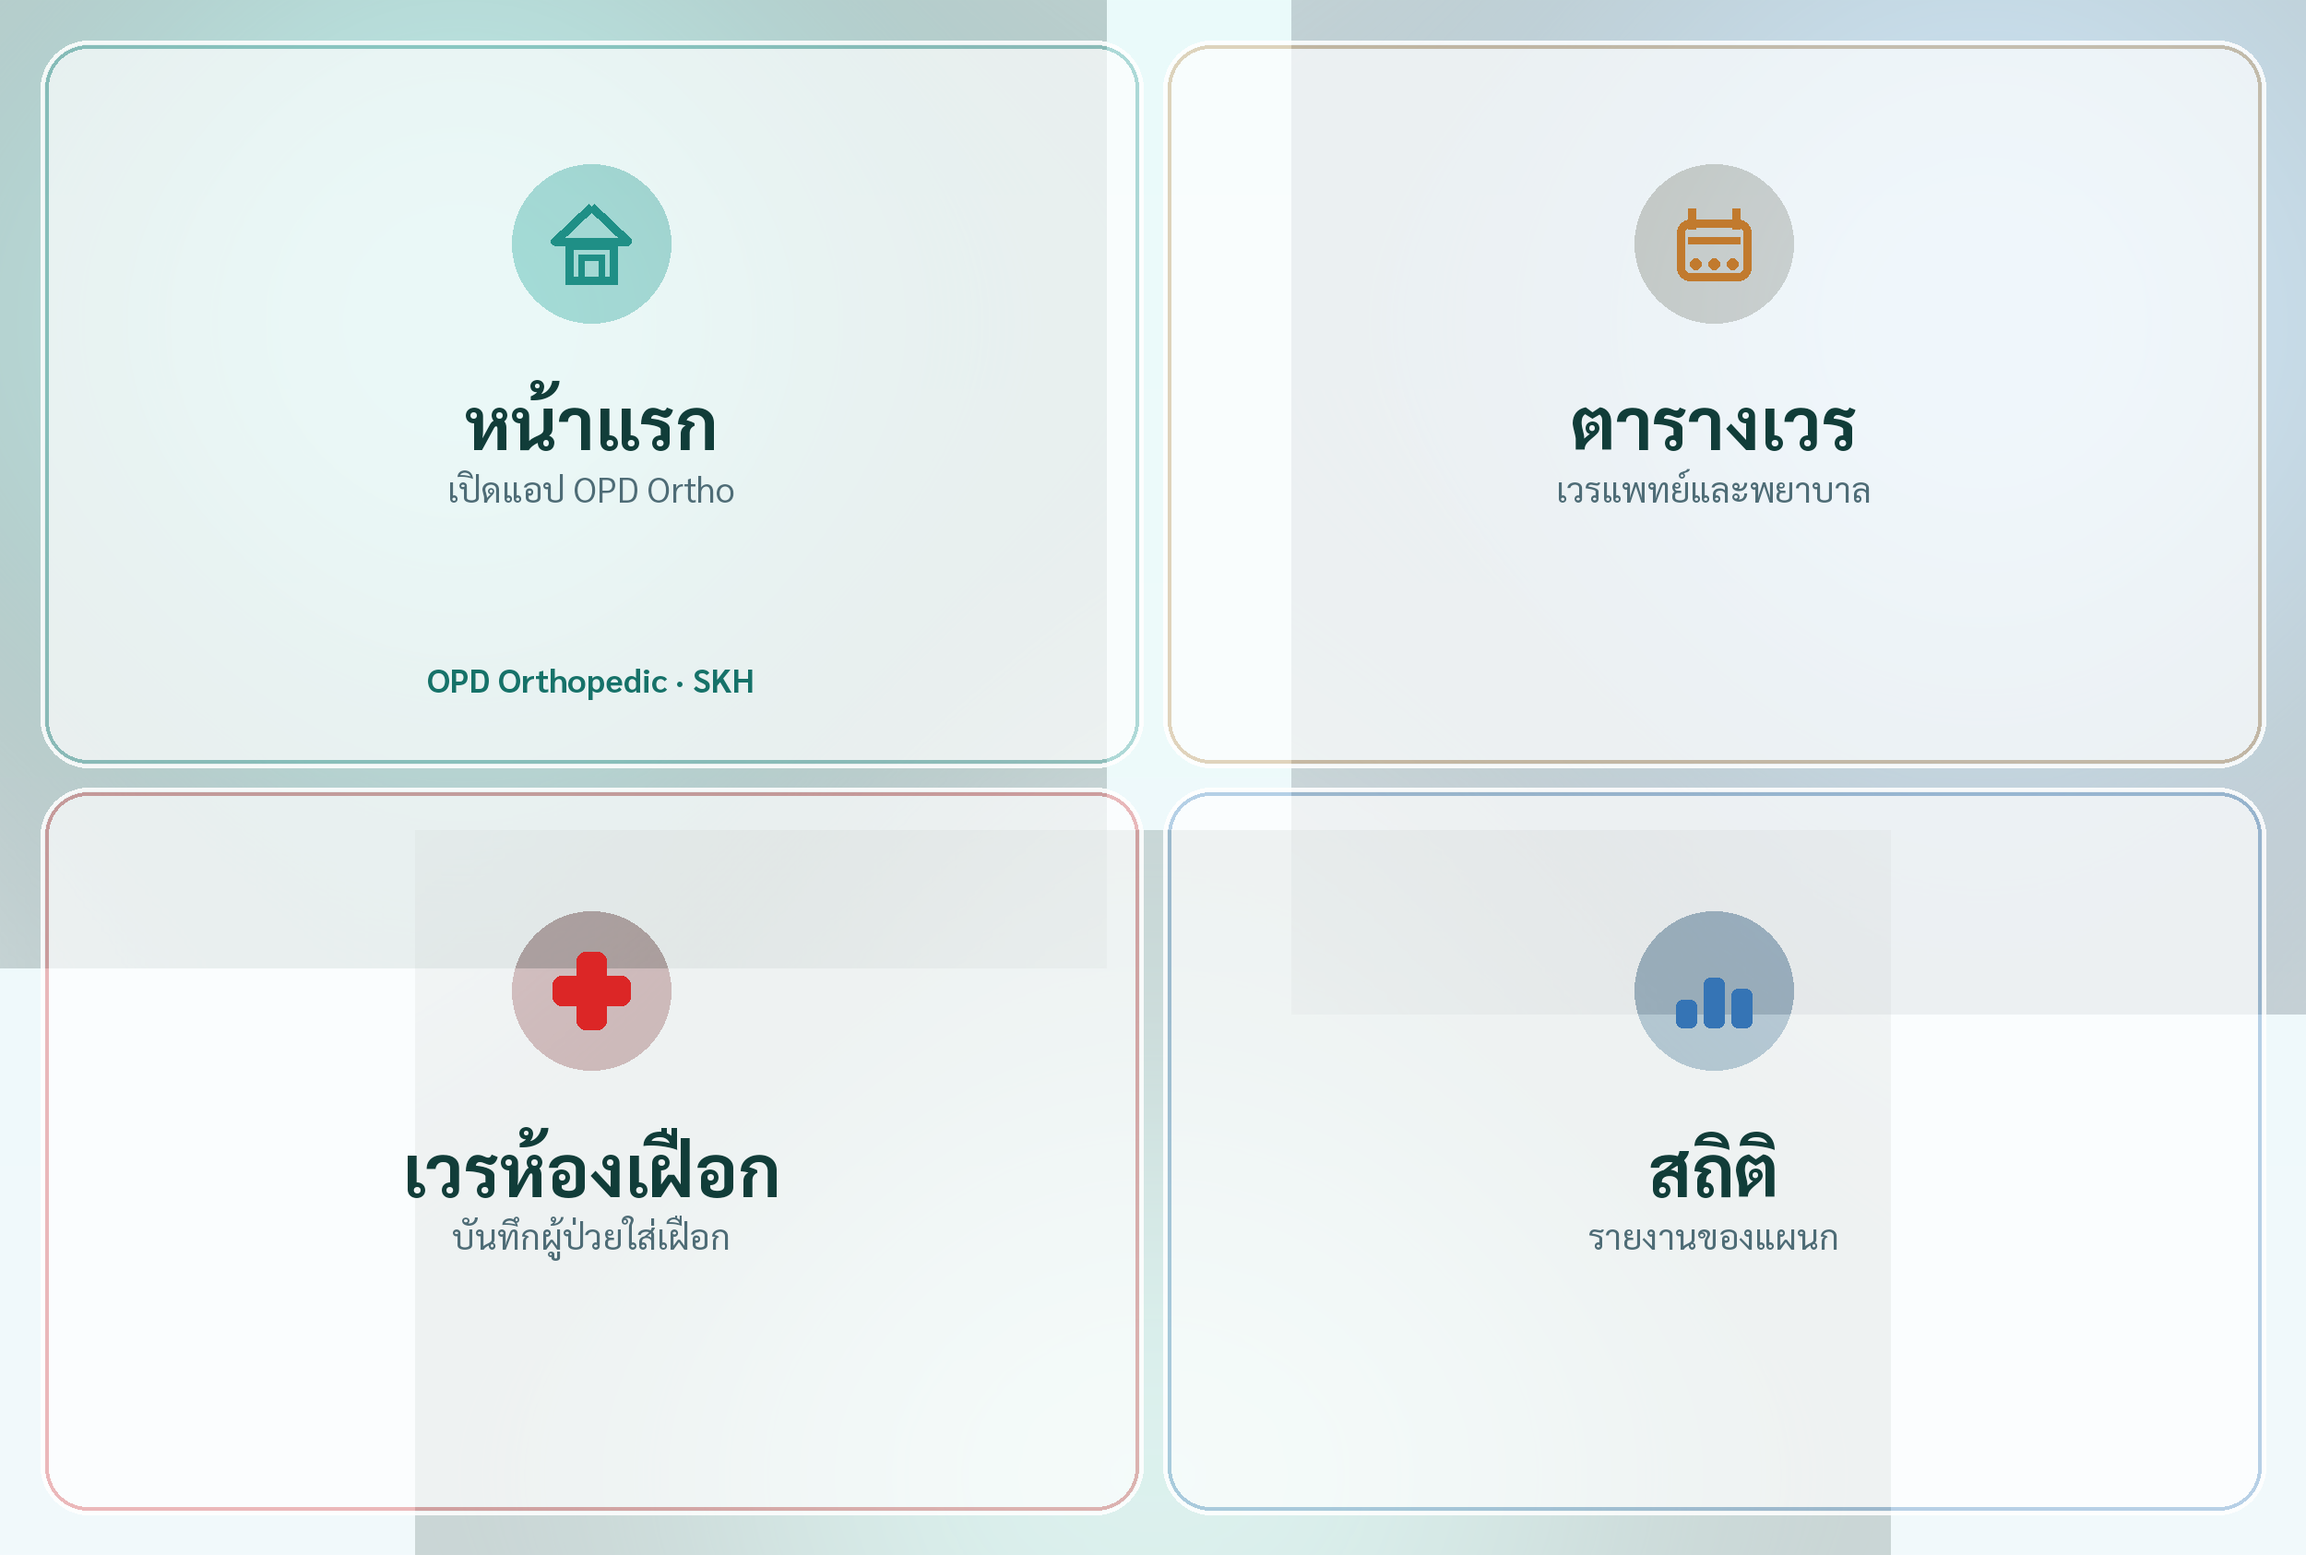
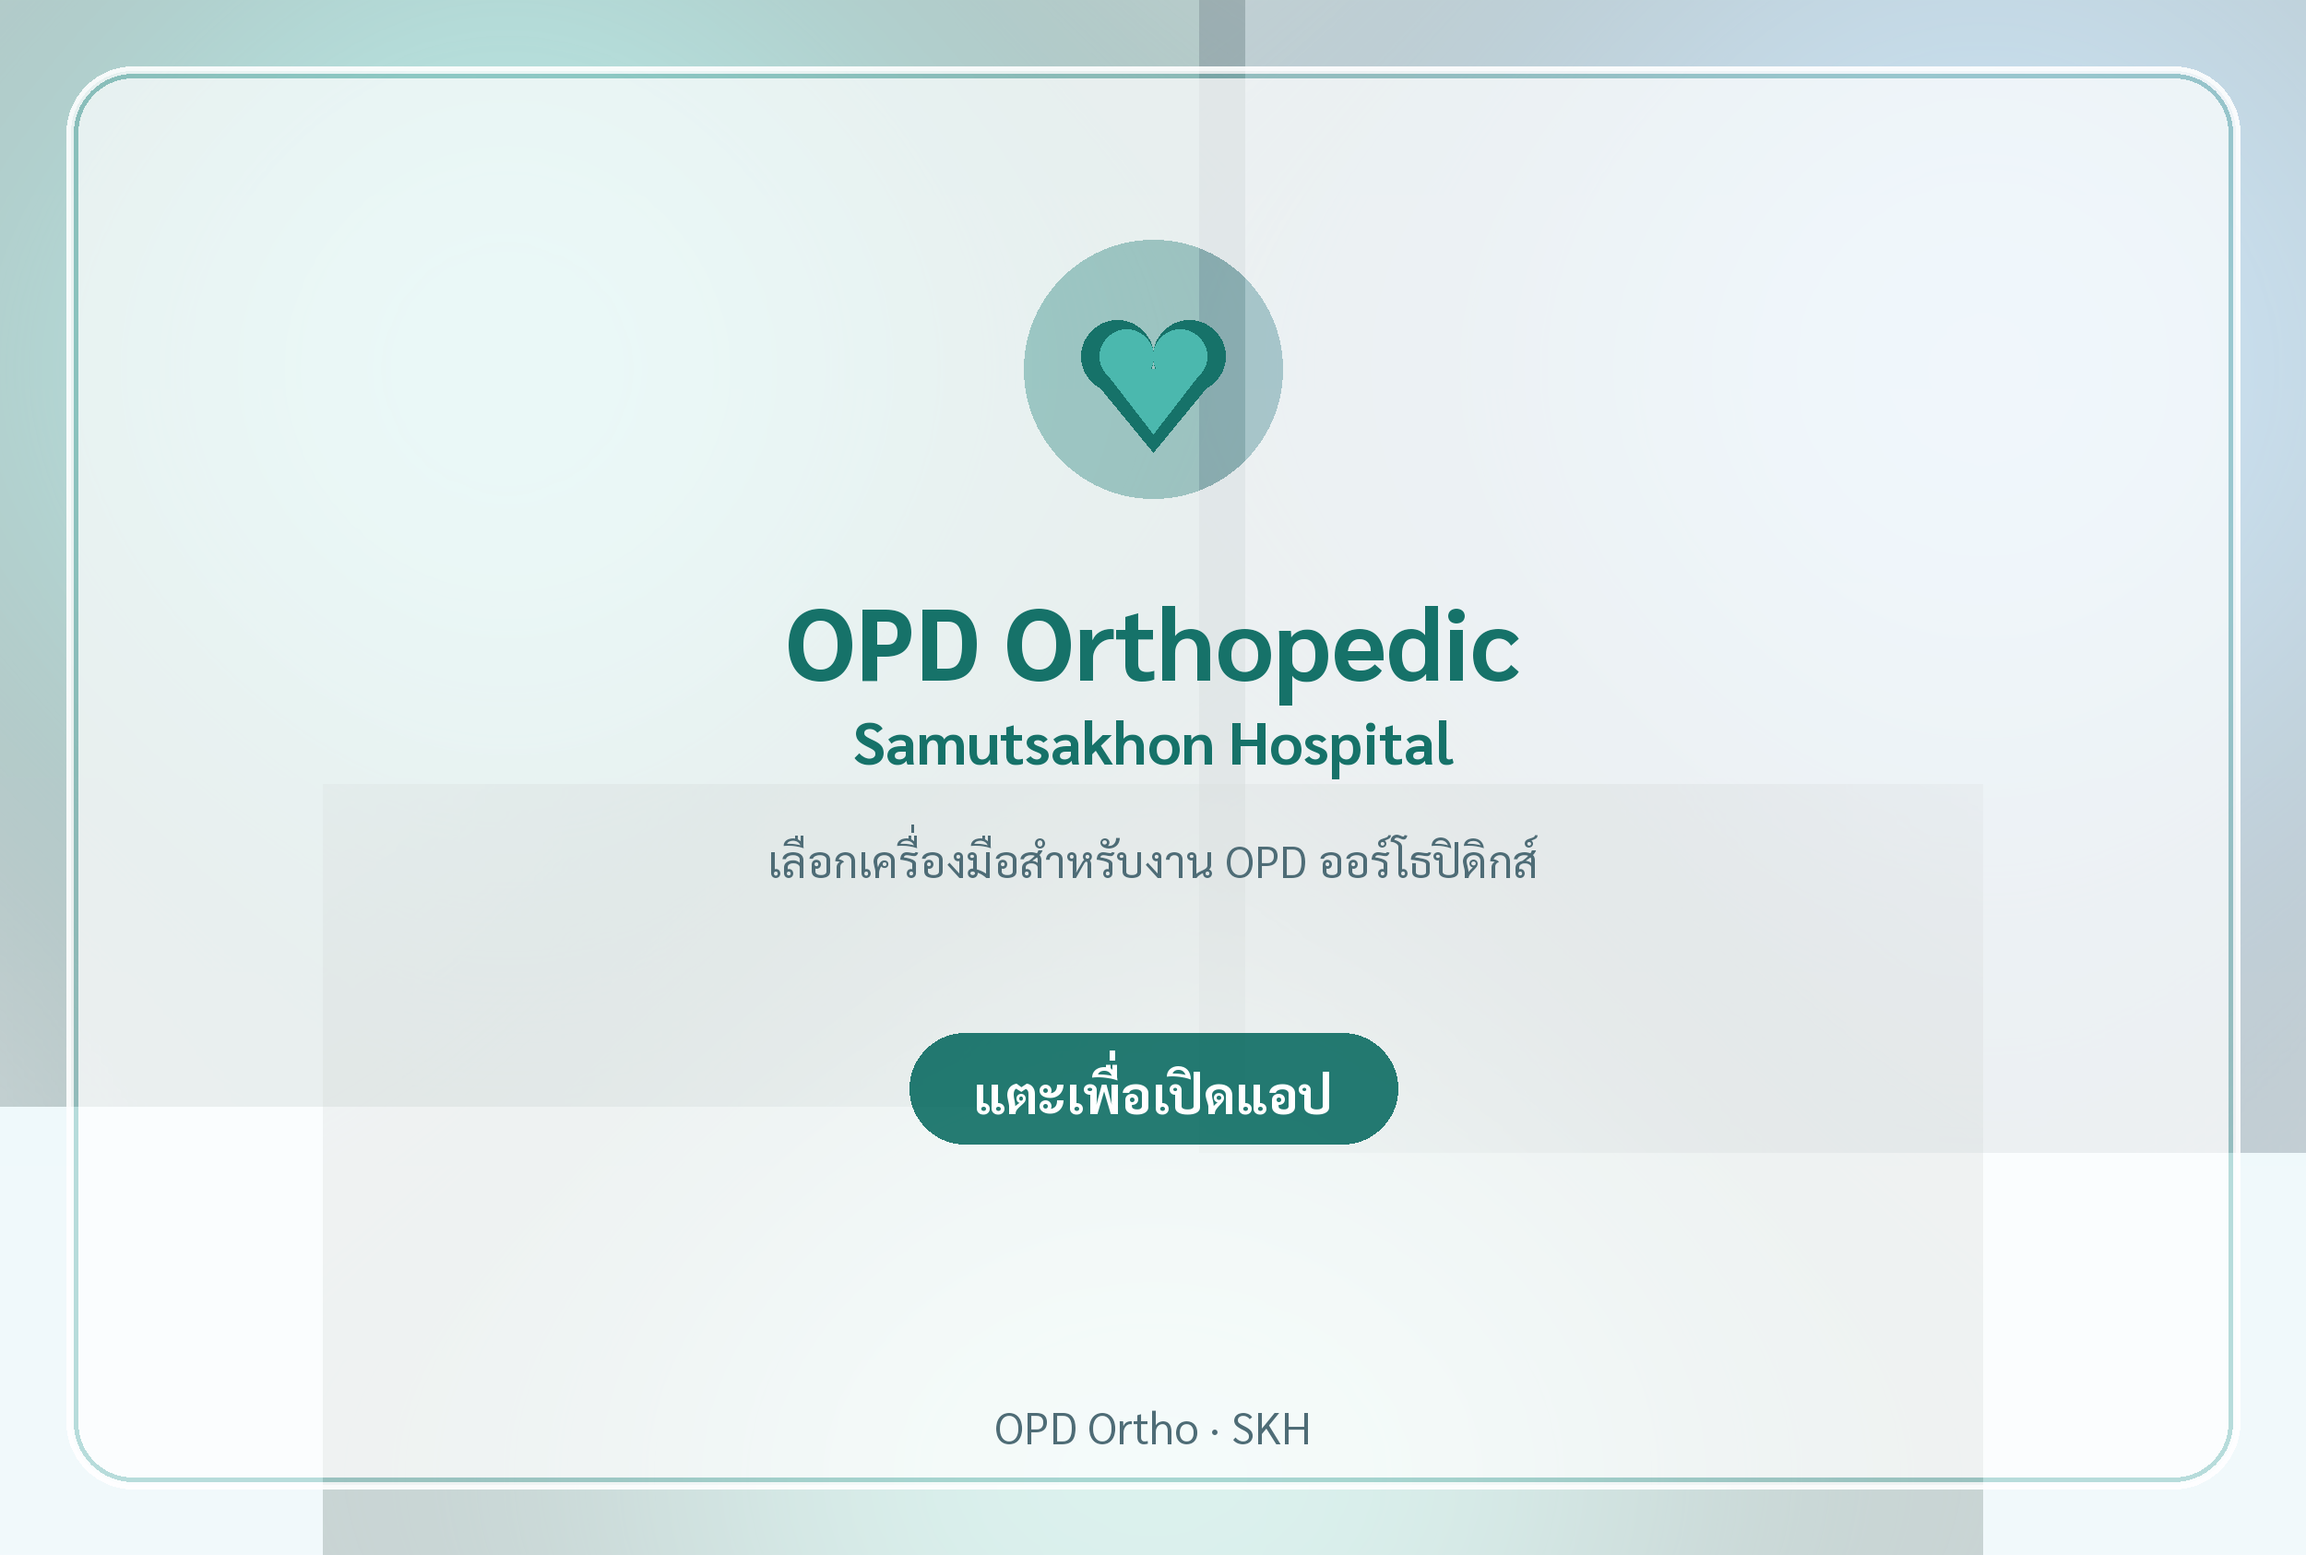
Simplify LINE rich menu to a single full-area LIFF link (#99)
* Fix LINE rich menu deploy: shorten chatBarText to 14-char limit

Validation failed with HTTP 400 because "เปิดแอป OPD Ortho" is 17
grapheme clusters; LINE caps chatBarText at 14. Also print API error
bodies and preflight length checks so future failures are actionable.

* Simplify LINE rich menu to a single full-area LIFF link

Replace the 2x2 module grid with one branded CTA panel that covers the
entire rich menu and opens https://liff.line.me/{LIFF_ID}.

* Remove accidental rich-menu __pycache__ from the repo

---------

diff --git a/line/rich-menu/generate-image.py b/line/rich-menu/generate-image.py
@@ -1,5 +1,8 @@
 #!/usr/bin/env python3
-"""Generate the OPD Ortho SKH LINE rich-menu image (2500x1686 PNG)."""
+"""Generate the OPD Ortho SKH LINE rich-menu image (2500x1686 PNG).
+
+Single full-bleed CTA that opens the main LIFF URL.
+"""
 
 from __future__ import annotations
 
@@ -13,18 +16,13 @@ FONT_BOLD = ROOT / "public" / "fonts" / "Sarabun-Bold.ttf"
 FONT_REG = ROOT / "public" / "fonts" / "Sarabun-Regular.ttf"
 
 W, H = 2500, 1686
-GAP = 22
-PAD = 44
+PAD = 72
 
 BRAND_600 = (22, 114, 105)
+BRAND_500 = (31, 143, 134)
+BRAND_400 = (75, 184, 174)
 FG = (17, 61, 57)
 MUTED = (78, 108, 118)
-DOCK = {
-    "home": (31, 143, 134),
-    "calendar": (193, 122, 46),
-    "cross": (220, 38, 38),
-    "chart": (53, 116, 181),
-}
 
 
 def soft_blob(size: tuple[int, int], color: tuple[int, int, int], alpha: int) -> Image.Image:
@@ -35,7 +33,6 @@ def soft_blob(size: tuple[int, int], color: tuple[int, int, int], alpha: int) ->
 
 
 def make_background() -> Image.Image:
-    # Soft teal/blue wash matching BackgroundGradient
     top = Image.new("RGB", (1, H))
     tp = top.load()
     for y in range(H):
@@ -46,9 +43,9 @@ def make_background() -> Image.Image:
             int(250 + (252 - 250) * t),
         )
     img = top.resize((W, H), Image.Resampling.BILINEAR).convert("RGBA")
-    img.alpha_composite(soft_blob((1400, 1400), (169, 232, 226), 170), dest=(-200, -350))
-    img.alpha_composite(soft_blob((1500, 1500), (188, 217, 245), 150), dest=(1400, -400))
-    img.alpha_composite(soft_blob((1600, 1400), (205, 238, 230), 140), dest=(450, 900))
+    img.alpha_composite(soft_blob((1600, 1600), (169, 232, 226), 180), dest=(-250, -400))
+    img.alpha_composite(soft_blob((1700, 1700), (188, 217, 245), 155), dest=(1300, -450))
+    img.alpha_composite(soft_blob((1800, 1500), (205, 238, 230), 145), dest=(350, 850))
     return img
 
 
@@ -63,112 +60,67 @@ def rounded_rect(
     draw.rounded_rectangle(box, radius=radius, fill=fill, outline=outline, width=width)
 
 
-def draw_home_icon(draw: ImageDraw.ImageDraw, cx: int, cy: int, color: tuple[int, int, int], s: int = 40) -> None:
-    roof = [(cx, cy - s), (cx - s, cy - 2), (cx + s, cy - 2)]
-    draw.line(roof + [roof[0]], fill=color, width=9, joint="curve")
-    body = [cx - int(s * 0.7), cy - 2, cx + int(s * 0.7), cy + s + 4]
-    draw.rectangle(body, outline=color, width=9)
-    door = [cx - 14, cy + 12, cx + 14, cy + s + 4]
-    draw.rectangle(door, outline=color, width=7)
-
-
-def draw_calendar_icon(draw: ImageDraw.ImageDraw, cx: int, cy: int, color: tuple[int, int, int], s: int = 40) -> None:
-    box = [cx - s, cy - int(s * 0.65), cx + s, cy + s]
-    rounded_rect(draw, tuple(box), 14, outline=color, width=9)
-    draw.line([(cx - s + 12, cy - 4), (cx + s - 12, cy - 4)], fill=color, width=8)
-    for dx in (-20, 0, 20):
-        draw.ellipse((cx + dx - 6, cy + 16, cx + dx + 6, cy + 28), fill=color)
-    for dx in (-24, 24):
-        draw.line([(cx + dx, cy - int(s * 0.95)), (cx + dx, cy - int(s * 0.4))], fill=color, width=9)
-
-
-def draw_cross_icon(draw: ImageDraw.ImageDraw, cx: int, cy: int, color: tuple[int, int, int], s: int = 40) -> None:
-    arm_w = int(s * 0.4)
-    arm_h = int(s * 1.05)
-    draw.rounded_rectangle([cx - arm_w, cy - arm_h, cx + arm_w, cy + arm_h], radius=10, fill=color)
-    draw.rounded_rectangle([cx - arm_h, cy - arm_w, cx + arm_h, cy + arm_w], radius=10, fill=color)
-
-
-def draw_chart_icon(draw: ImageDraw.ImageDraw, cx: int, cy: int, color: tuple[int, int, int], s: int = 40) -> None:
-    base_y = cy + s
-    for dx, h in ((-30, 30), (0, 54), (30, 42)):
-        draw.rounded_rectangle([cx + dx - 11, base_y - h, cx + dx + 11, base_y], radius=7, fill=color)
-
-
-def cell_boxes() -> list[tuple[int, int, int, int]]:
-    cw = (W - PAD * 2 - GAP) // 2
-    ch = (H - PAD * 2 - GAP) // 2
-    boxes = []
-    for row in range(2):
-        for col in range(2):
-            x0 = PAD + col * (cw + GAP)
-            y0 = PAD + row * (ch + GAP)
-            boxes.append((x0, y0, x0 + cw, y0 + ch))
-    return boxes
+def draw_heart(draw: ImageDraw.ImageDraw, cx: int, cy: int, size: int, color: tuple[int, int, int]) -> None:
+    # Classic filled heart (two circles + triangle), crisp at rich-menu scale.
+    r = size // 2
+    draw.ellipse((cx - size, cy - r - 8, cx, cy + r - 8), fill=color)
+    draw.ellipse((cx, cy - r - 8, cx + size, cy + r - 8), fill=color)
+    draw.polygon(
+        [
+            (cx - size + 4, cy + 6),
+            (cx + size - 4, cy + 6),
+            (cx, cy + size + 18),
+        ],
+        fill=color,
+    )
 
 
 def main() -> None:
-    bold = ImageFont.truetype(str(FONT_BOLD), 78)
-    reg = ImageFont.truetype(str(FONT_REG), 38)
-    brand = ImageFont.truetype(str(FONT_BOLD), 36)
+    title_font = ImageFont.truetype(str(FONT_BOLD), 110)
+    brand_font = ImageFont.truetype(str(FONT_BOLD), 64)
+    sub_font = ImageFont.truetype(str(FONT_REG), 48)
+    cta_font = ImageFont.truetype(str(FONT_BOLD), 56)
 
     base = make_background()
     layer = Image.new("RGBA", (W, H), (0, 0, 0, 0))
     draw = ImageDraw.Draw(layer)
 
-    tiles = [
-        {
-            "title": "หน้าแรก",
-            "subtitle": "เปิดแอป OPD Ortho",
-            "accent": DOCK["home"],
-            "icon": draw_home_icon,
-            "brand": True,
-        },
-        {
-            "title": "ตารางเวร",
-            "subtitle": "เวรแพทย์และพยาบาล",
-            "accent": DOCK["calendar"],
-            "icon": draw_calendar_icon,
-            "brand": False,
-        },
-        {
-            "title": "เวรห้องเฝือก",
-            "subtitle": "บันทึกผู้ป่วยใส่เฝือก",
-            "accent": DOCK["cross"],
-            "icon": draw_cross_icon,
-            "brand": False,
-        },
-        {
-            "title": "สถิติ",
-            "subtitle": "รายงานของแผนก",
-            "accent": DOCK["chart"],
-            "icon": draw_chart_icon,
-            "brand": False,
-        },
-    ]
+    panel = (PAD, PAD, W - PAD, H - PAD)
+    rounded_rect(draw, panel, 72, fill=(255, 255, 255, 178))
+    rounded_rect(draw, panel, 72, outline=(255, 255, 255, 230), width=5)
+    rounded_rect(draw, (PAD + 8, PAD + 8, W - PAD - 8, H - PAD - 8), 64, outline=(*BRAND_500, 70), width=5)
 
-    for box, tile in zip(cell_boxes(), tiles):
-        x0, y0, x1, y1 = box
-        rounded_rect(draw, box, 52, fill=(255, 255, 255, 175))
-        rounded_rect(draw, box, 52, outline=(255, 255, 255, 220), width=4)
-        rounded_rect(draw, (x0 + 5, y0 + 5, x1 - 5, y1 - 5), 46, outline=(*tile["accent"], 78), width=4)
+    cx = W // 2
+    icon_y = 400
+    r = 140
+    draw.ellipse((cx - r, icon_y - r, cx + r, icon_y + r), fill=(*BRAND_500, 38))
+    draw_heart(draw, cx, icon_y - 6, 78, BRAND_600)
+    draw_heart(draw, cx, icon_y - 6, 58, BRAND_400)
 
-        cx = (x0 + x1) // 2
-        icon_y = y0 + 220
-        r = 86
-        draw.ellipse((cx - r, icon_y - r, cx + r, icon_y + r), fill=(*tile["accent"], 40))
-        tile["icon"](draw, cx, icon_y, tile["accent"], 40)
+    line1 = "OPD Orthopedic"
+    line2 = "Samutsakhon Hospital"
+    w1 = draw.textlength(line1, font=title_font)
+    w2 = draw.textlength(line2, font=brand_font)
+    draw.text((cx - w1 / 2, 620), line1, font=title_font, fill=BRAND_600)
+    draw.text((cx - w2 / 2, 760), line2, font=brand_font, fill=BRAND_600)
 
-        tw = draw.textlength(tile["title"], font=bold)
-        draw.text((cx - tw / 2, y0 + 360), tile["title"], font=bold, fill=FG)
+    sub = "เลือกเครื่องมือสำหรับงาน OPD ออร์โธปิดิกส์"
+    sw = draw.textlength(sub, font=sub_font)
+    draw.text((cx - sw / 2, 900), sub, font=sub_font, fill=MUTED)
 
-        sw = draw.textlength(tile["subtitle"], font=reg)
-        draw.text((cx - sw / 2, y0 + 460), tile["subtitle"], font=reg, fill=MUTED)
+    # CTA pill
+    cta = "แตะเพื่อเปิดแอป"
+    cw = draw.textlength(cta, font=cta_font)
+    pill_w = int(cw + 140)
+    pill_h = 120
+    px0 = cx - pill_w // 2
+    py0 = 1120
+    rounded_rect(draw, (px0, py0, px0 + pill_w, py0 + pill_h), 60, fill=(*BRAND_600, 235))
+    draw.text((cx - cw / 2, py0 + 28), cta, font=cta_font, fill=(255, 255, 255, 255))
 
-        if tile["brand"]:
-            tag = "OPD Orthopedic · SKH"
-            bw = draw.textlength(tag, font=brand)
-            draw.text((cx - bw / 2, y1 - 120), tag, font=brand, fill=BRAND_600)
+    tag = "OPD Ortho · SKH"
+    tw = draw.textlength(tag, font=sub_font)
+    draw.text((cx - tw / 2, H - PAD - 100), tag, font=sub_font, fill=MUTED)
 
     out = Image.alpha_composite(base, layer).convert("RGB")
     out.save(OUT, format="PNG", optimize=True)

diff --git a/line/rich-menu/README.md b/line/rich-menu/README.md
@@ -1,18 +1,13 @@
 # LINE rich menu (OPD Ortho SKH)
 
-Branded 2×2 rich menu that opens the LIFF app module routes.
+Single full-area rich menu that opens the main LIFF app URL:
 
-| Tile | Opens |
-| --- | --- |
-| หน้าแรก | `https://liff.line.me/{LIFF_ID}` |
-| ตารางเวร | `https://liff.line.me/{LIFF_ID}/duty-schedule` |
-| เวรห้องเฝือก | `https://liff.line.me/{LIFF_ID}/cast-room` |
-| สถิติ | `https://liff.line.me/{LIFF_ID}/statistics` |
+`https://liff.line.me/{LIFF_ID}`
 
 ## Files
 
 - `richmenu.png` — 2500×1686 image (LINE full-size rich menu)
-- `config.json` — Messaging API rich menu object (URI placeholders)
+- `config.json` — Messaging API rich menu object (one URI area)
 - `generate-image.py` — regenerates `richmenu.png` from the app theme
 
 ## Regenerate the image
@@ -27,7 +22,7 @@ python3 line/rich-menu/generate-image.py
 ### GitHub Actions (manual)
 
 1. Add repository secrets:
-   - `LINE_CHANNEL_ACCESS_TOKEN` — Messaging API long-lived token (LINE Developers Console → Messaging API channel → Channel access token)
+   - `LINE_CHANNEL_ACCESS_TOKEN` — Messaging API long-lived token
    - `LINE_LIFF_ID` — the same LIFF ID as `NEXT_PUBLIC_LIFF_ID` (or the full `https://liff.line.me/{id}` URL)
 2. Actions → **Deploy LINE Rich Menu** → **Run workflow**
 

diff --git a/README.md b/README.md
@@ -51,8 +51,8 @@ will show a sign-in error.
 
 ## LINE rich menu
 
-A branded 2×2 rich menu under `line/rich-menu/` opens the LIFF app (home,
-duty schedule, cast room, statistics). Deploy it with the manual GitHub
+A branded single-tap rich menu under `line/rich-menu/` opens the main LIFF
+URL (`https://liff.line.me/{LIFF_ID}`). Deploy it with the manual GitHub
 Action **Deploy LINE Rich Menu**, or locally via
 `scripts/line/deploy-rich-menu.sh`.
 
